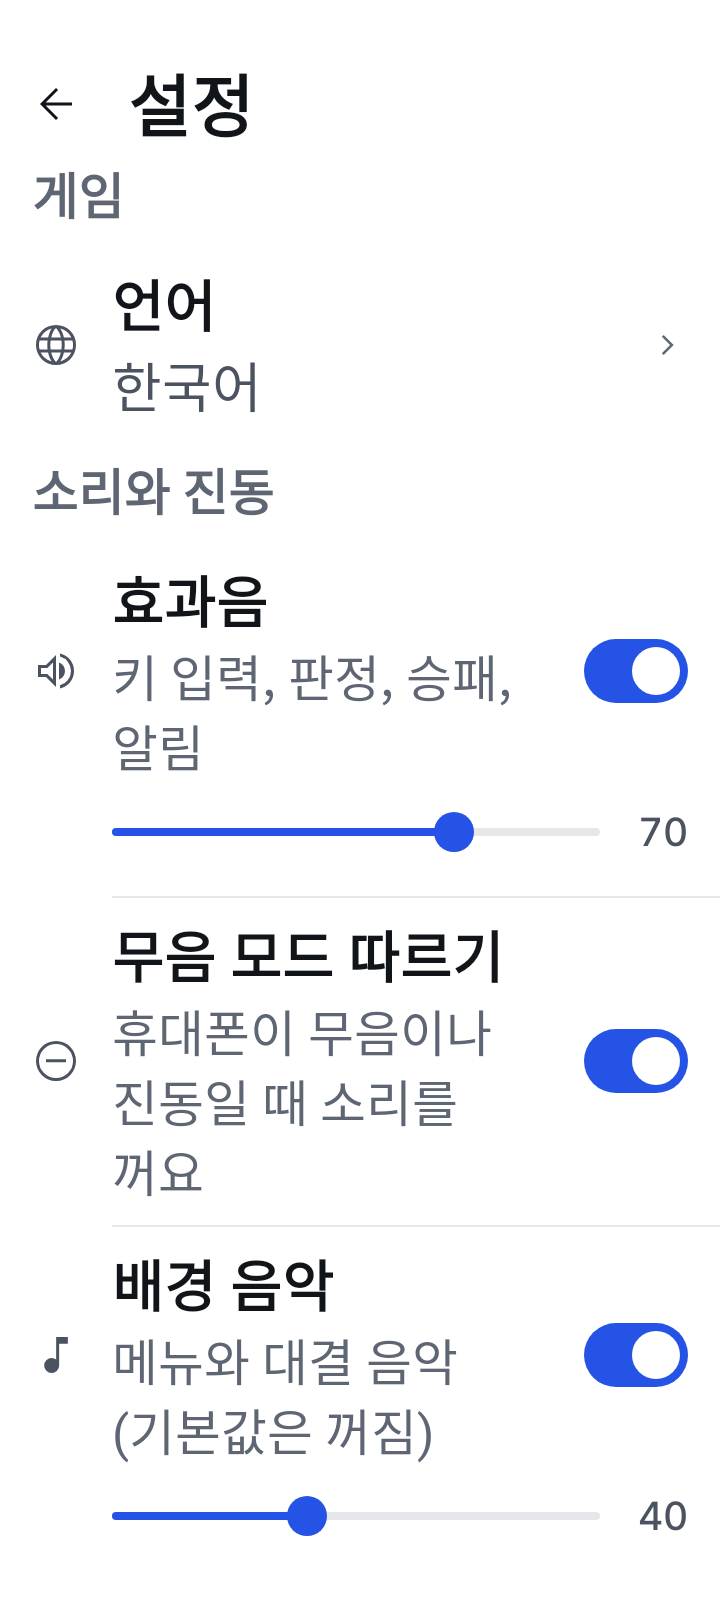
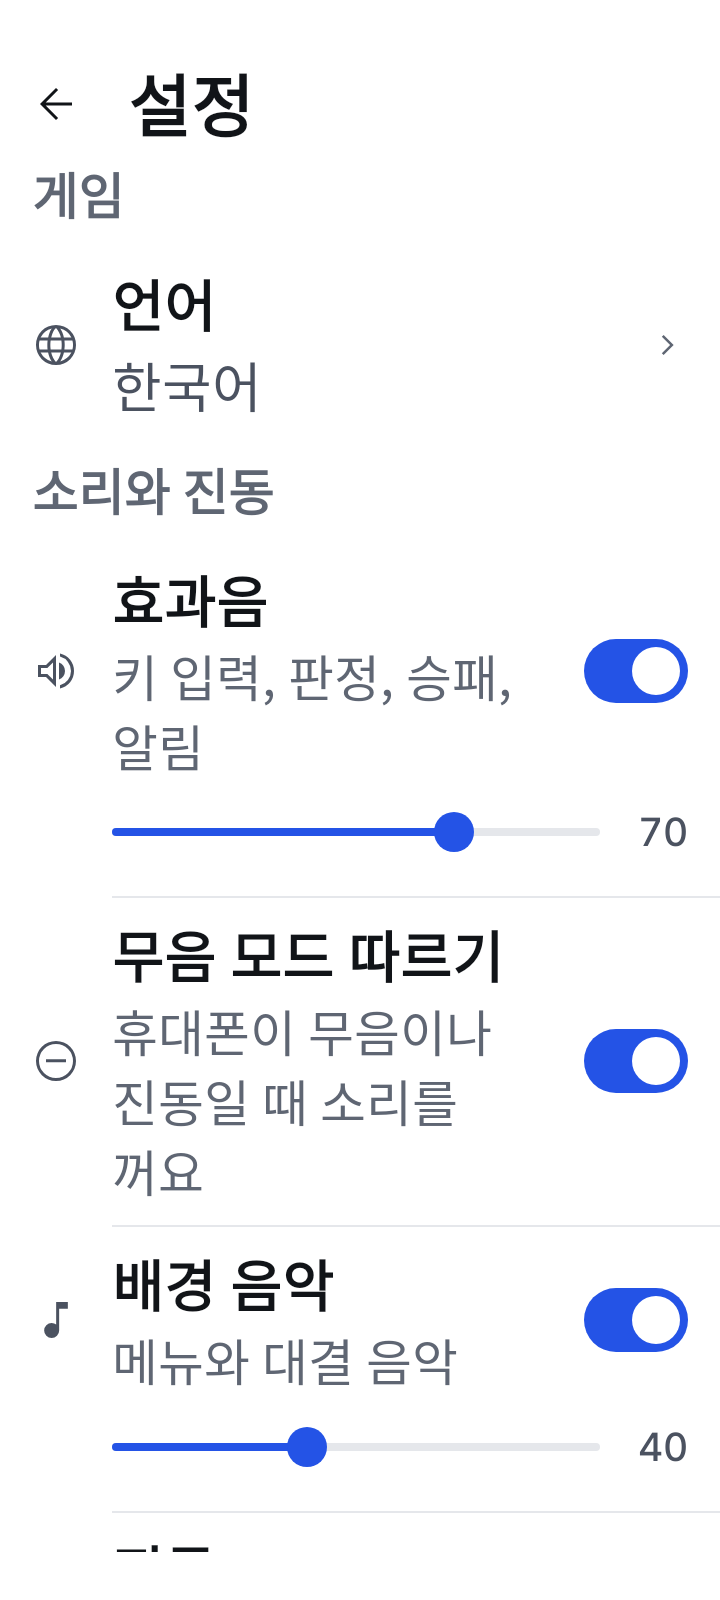
Number Baseball: drop 'off by default' from the music setting subtitle in all locales
Claude-Session: https://claude.ai/code/session_013CZbVP3uQhTZu6sPw4fNAf

Changed region(s): [[0.1528, 0.7812, 0.9778, 0.9688], [0.0611, 0.8125, 0.0917, 0.875]]

diff --git a/number-baseball-app/design/screens/11-settings.md b/number-baseball-app/design/screens/11-settings.md
@@ -14,7 +14,7 @@ Top bar 56 dp: `arrow_back` · "설정". On scroll the top bar gets a 1 dp `line
 | 소리와 진동 | 효과음 (`volume_up`), sub "키 입력, 판정, 승패, 알림" | switch | **on** | |
 | | 효과음 볼륨 | slider row (DESIGN_SYSTEM 12.15) | 70 | preview cue on release |
 | | 무음 모드 따르기 (`do_not_disturb_on`), sub "휴대폰이 무음이나 진동일 때 소리를 꺼요" | switch | **on** | |
-| | 배경 음악 (`music_note`), sub "메뉴와 대결 음악 (기본값은 꺼짐)" | switch | **off** | |
+| | 배경 음악 (`music_note`), sub "메뉴와 대결 음악" | switch | **on** (owner decision 2026-11-26) | |
 | | 음악 볼륨 | slider row, disabled while music is off | 40 | music fades to the new level |
 | | 진동 (`mobile_vibrate`), sub "키 입력, 판정, 승패" | switch | **on** | |
 | 채팅 | 전체 채팅 끄기 (`notifications_off`), sub "모든 채팅과 빠른 문구를 숨겨요" | switch | off | same setting as the chat sheet switch |
